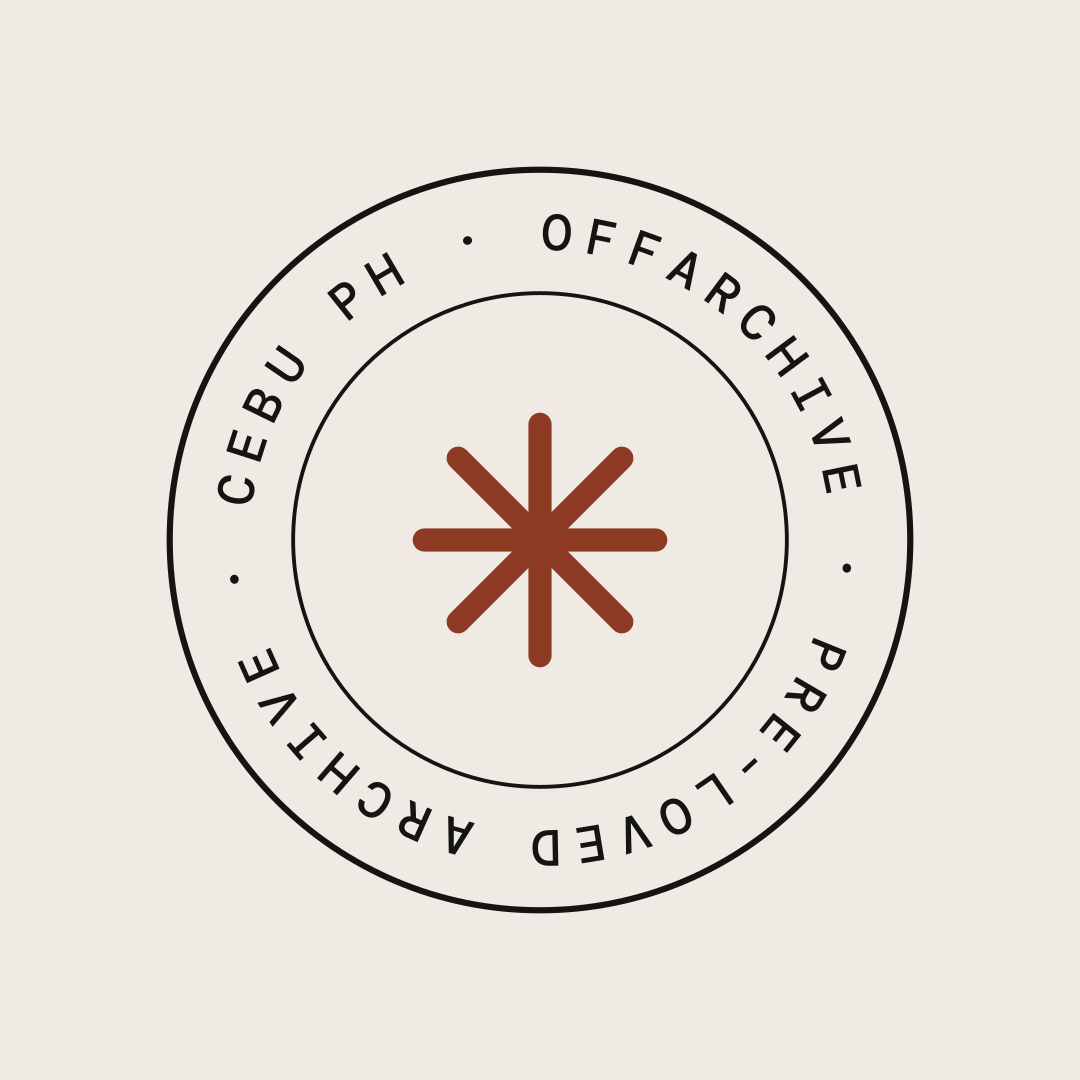
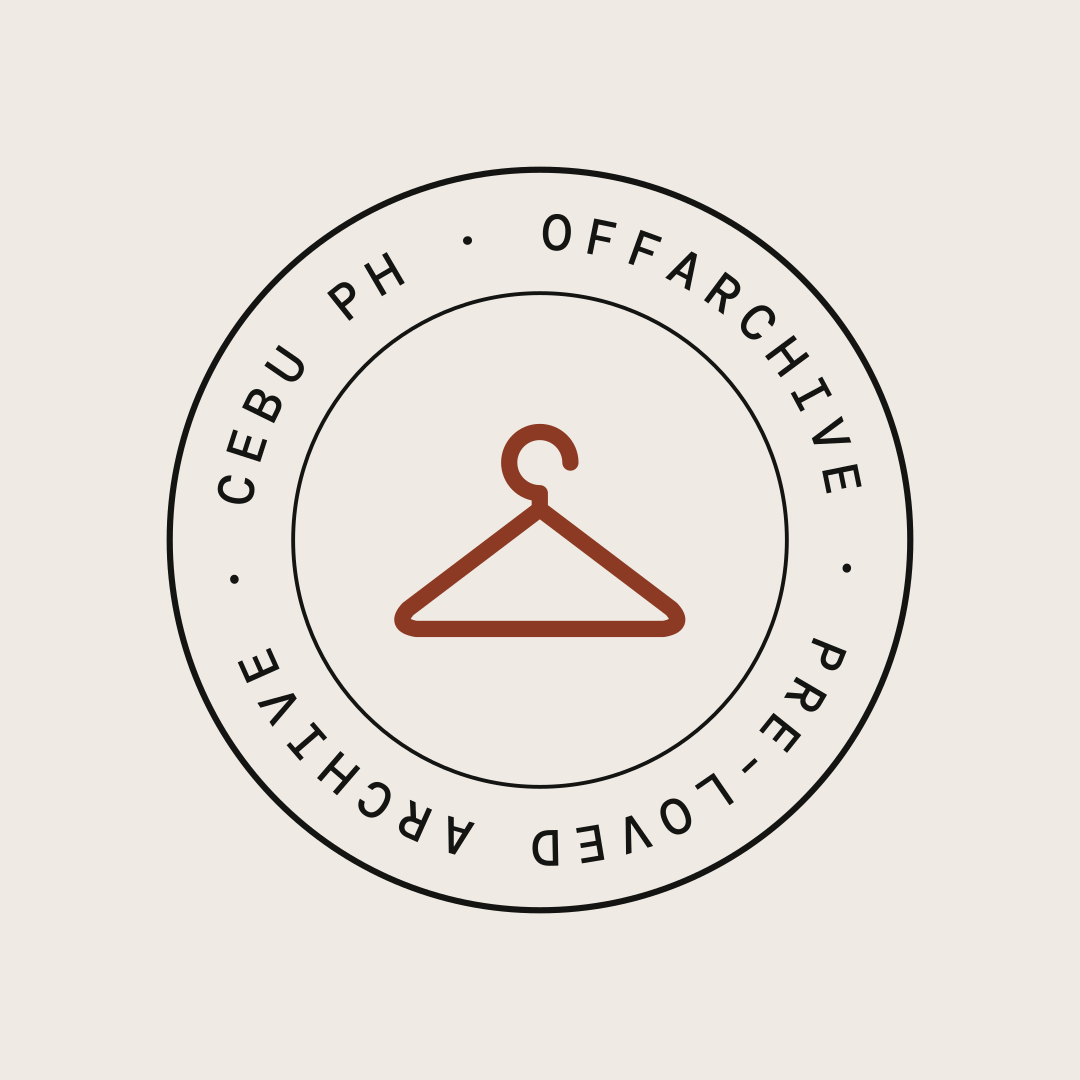
Replace the asterisk mark with a hanger across the identity
- Seal, favicon, app icons, avatar and share image use a rust coat hanger
- Hanger icon component for the banner separators, pick badge, section labels and sell notice
- Removes every remaining asterisk symbol from the site and docs

Changed region(s): [[0.3667, 0.3667, 0.6417, 0.6417]]

diff --git a/src/lib/brand.ts b/src/lib/brand.ts
@@ -1,3 +1,5 @@
 // Generated by `npm run brand` (tools/brand.mjs). Do not edit by hand.
 export const WORDMARK = { width: 514, height: 84, d: "M27 80.90L27 80.90Q22.20 80.90 18 78.05Q13.80 75.20 10.65 70.20Q7.50 65.20 5.75 58.45Q4 51.70 4 43.90L4 43.90Q4 36.10 5.75 29.40Q7.50 22.70 10.65 17.65Q13.80 12.60 18 9.80Q22.20 7 27 7L27 7Q31.80 7 35.95 9.80Q40.10 12.60 43.30 17.65Q46.50 22.70 48.25 29.40Q50 36.10 50 43.90L50 43.90Q50 51.70 48.25 58.45Q46.50 65.20 43.30 70.20Q40.10 75.20 35.95 78.05Q31.80 80.90 27 80.90ZM27 78.20L27 78.20Q34.10 78.20 38.10 69.70Q42.10 61.20 42.10 43.90L42.10 43.90Q42.10 26.60 38.10 18.15Q34.10 9.70 27 9.70L27 9.70Q20 9.70 15.95 18.15Q11.90 26.60 11.90 43.90L11.90 43.90Q11.90 61.20 15.95 69.70Q20 78.20 27 78.20ZM82.20 80L61.90 80Q60.40 80 60.40 78.90L60.40 78.90Q60.40 78 61.70 77.70L61.70 77.70L64 77.30Q66.10 76.90 66.75 76.20Q67.40 75.50 67.40 73.40L67.40 73.40L67.40 14.60Q67.40 12.50 66.75 11.80Q66.10 11.10 64 10.70L64 10.70L61.70 10.30Q60.40 10 60.40 9.10L60.40 9.10Q60.40 8 61.90 8L61.90 8L94.10 8Q96.40 8 96.60 10.30L96.60 10.30L97.40 26.90Q97.60 28.60 96.10 28.60L96.10 28.60Q94.90 28.60 94.70 27.30L94.70 27.30L94.20 24Q93.40 18.80 91.40 15.90Q89.40 13 86.90 11.75Q84.40 10.50 82.10 10.50L82.10 10.50Q77.70 10.50 76.10 11.90Q74.50 13.30 74.50 16.20L74.50 16.20L74.50 39.80Q74.50 41.20 75.90 41.20L75.90 41.20L79.40 41.20Q83.80 41.20 84.80 36.50L84.80 36.50L85.90 31.50Q86.20 30.20 87.40 30.20L87.40 30.20Q88.60 30.20 88.60 31.90L88.60 31.90L88.60 54.40Q88.60 56.10 87.40 56.10L87.40 56.10Q86.20 56.10 85.90 54.80L85.90 54.80L84.80 49.90Q84.10 46.40 82.85 45.30Q81.60 44.20 79.30 44.20L79.30 44.20L75.90 44.20Q74.50 44.20 74.50 45.60L74.50 45.60L74.50 72.90Q74.50 75 75.15 75.85Q75.80 76.70 77.90 77L77.90 77L82.60 77.70Q83.70 77.90 83.70 78.80L83.70 78.80Q83.70 80 82.20 80L82.20 80ZM127.50 80L107.20 80Q105.70 80 105.70 78.90L105.70 78.90Q105.70 78 107 77.70L107 77.70L109.30 77.30Q111.40 76.90 112.05 76.20Q112.70 75.50 112.70 73.40L112.70 73.40L112.70 14.60Q112.70 12.50 112.05 11.80Q111.40 11.10 109.30 10.70L109.30 10.70L107 10.30Q105.70 10 105.70 9.10L105.70 9.10Q105.70 8 107.20 8L107.20 8L139.40 8Q141.70 8 141.90 10.30L141.90 10.30L142.70 26.90Q142.90 28.60 141.40 28.60L141.40 28.60Q140.20 28.60 140 27.30L140 27.30L139.50 24Q138.70 18.80 136.70 15.90Q134.70 13 132.20 11.75Q129.70 10.50 127.40 10.50L127.40 10.50Q123 10.50 121.40 11.90Q119.80 13.30 119.80 16.20L119.80 16.20L119.80 39.80Q119.80 41.20 121.20 41.20L121.20 41.20L124.70 41.20Q129.10 41.20 130.10 36.50L130.10 36.50L131.20 31.50Q131.50 30.20 132.70 30.20L132.70 30.20Q133.90 30.20 133.90 31.90L133.90 31.90L133.90 54.40Q133.90 56.10 132.70 56.10L132.70 56.10Q131.50 56.10 131.20 54.80L131.20 54.80L130.10 49.90Q129.40 46.40 128.15 45.30Q126.90 44.20 124.60 44.20L124.60 44.20L121.20 44.20Q119.80 44.20 119.80 45.60L119.80 45.60L119.80 72.90Q119.80 75 120.45 75.85Q121.10 76.70 123.20 77L123.20 77L127.90 77.70Q129 77.90 129 78.80L129 78.80Q129 80 127.50 80L127.50 80ZM162.80 80L148.80 80Q147.30 80 147.30 79L147.30 79Q147.30 78 148.70 77.70L148.70 77.70L150.20 77.40Q152.20 77 153.20 75.45Q154.20 73.90 154.90 71.10L154.90 71.10L170.40 8.60Q170.60 7.60 171.05 7.30Q171.50 7 171.90 7L171.90 7Q172.40 7 172.85 7.30Q173.30 7.60 173.50 8.60L173.50 8.60L189.30 72Q190 74.80 190.90 75.90Q191.80 77 193.70 77.40L193.70 77.40L195.20 77.70Q196.60 78 196.60 79L196.60 79Q196.60 80 195.10 80L195.10 80L178 80Q176.60 80 176.60 78.90L176.60 78.90Q176.60 77.80 178.30 77.70L178.30 77.70L180.20 77.50Q181.90 77.30 182.35 76.40Q182.80 75.50 182.30 73.30L182.30 73.30L178.50 57.80Q177.90 55.20 175.20 55.20L175.20 55.20L164.70 55.20Q162.10 55.20 161.40 57.80L161.40 57.80L158 71.20Q156.50 76.90 161 77.50L161 77.50L162.50 77.70Q164.20 78 164.20 78.90L164.20 78.90Q164.20 80 162.80 80L162.80 80ZM164.40 52.20L164.40 52.20L175.40 52.20Q177 52.20 176.70 50.50L176.70 50.50L170.30 23.70L169.80 23.70L163.10 50.50Q162.80 52.20 164.40 52.20ZM244.30 80.90L244.30 80.90Q235.60 80.90 233.20 69.50L233.20 69.50L230.90 58.40Q229.80 53 228.45 50.20Q227.10 47.40 224.75 46.40Q222.40 45.40 218.30 45.40L218.30 45.40Q216.90 45.40 216.10 46.15Q215.30 46.90 215.30 48L215.30 48L215.30 73Q215.30 75.10 216.10 75.85Q216.90 76.60 219.70 77.10L219.70 77.10L223.40 77.70Q224.50 77.90 224.50 78.80L224.50 78.80Q224.50 80 223 80L223 80L202.70 80Q201.20 80 201.20 78.90L201.20 78.90Q201.20 78 202.50 77.70L202.50 77.70L204.80 77.30Q206.90 76.90 207.55 76.20Q208.20 75.50 208.20 73.40L208.20 73.40L208.20 14.60Q208.20 12.50 207.55 11.80Q206.90 11.10 204.80 10.70L204.80 10.70L202.50 10.30Q201.20 10 201.20 9.10L201.20 9.10Q201.20 8 202.70 8L202.70 8L223 8Q228.90 8 233.50 10.30Q238.10 12.60 240.70 16.65Q243.30 20.70 243.30 26L243.30 26Q243.30 32.30 239.50 37.35Q235.70 42.40 229.90 44.50L229.90 44.50Q229.20 44.70 229.15 45.15Q229.10 45.60 229.80 45.90L229.80 45.90Q233 47.40 234.85 50.10Q236.70 52.80 237.70 57.30L237.70 57.30L239.90 67.50Q241 72.70 242.50 74.90Q244 77.10 246.30 77.10L246.30 77.10Q247.10 77.10 247.75 76.85Q248.40 76.60 249.40 75.90L249.40 75.90Q250.20 75.40 250.90 75.65Q251.60 75.90 251.60 76.70L251.60 76.70Q251.60 78.40 249.40 79.65Q247.20 80.90 244.30 80.90ZM222 42.90L222 42.90Q228.80 42.90 232.30 38.35Q235.80 33.80 235.80 26.20L235.80 26.20Q235.80 18.80 231.75 14.65Q227.70 10.50 220.60 10.50L220.60 10.50Q215.30 10.50 215.30 14.50L215.30 14.50L215.30 37.40Q215.30 42.90 222 42.90ZM283.70 80.90L283.70 80.90Q276.30 80.90 270.75 76.30Q265.20 71.70 262.15 63.35Q259.10 55 259.10 43.60L259.10 43.60Q259.10 32.60 262.45 24.35Q265.80 16.10 271.45 11.55Q277.10 7 284 7L284 7Q288.10 7 291.20 7.75Q294.30 8.50 296.70 9.70L296.70 9.70Q297.90 10.40 297.90 11.80L297.90 11.80L298.20 27Q298.20 28.70 297 28.70L297 28.70Q295.90 28.70 295.60 27.40L295.60 27.40L294.60 23.70Q292.50 15.90 289.75 12.90Q287 9.90 283.20 9.90L283.20 9.90Q276.20 9.90 271.55 18.55Q266.90 27.20 266.90 43.60L266.90 43.60Q266.90 54.80 269.25 62.50Q271.60 70.20 275.35 74.10Q279.10 78 283.30 78L283.30 78Q287.80 78 290.55 75.20Q293.30 72.40 295.20 64.40L295.20 64.40L296.40 59.50Q296.70 58 298 58.20L298 58.20Q299.10 58.40 299.10 59.90L299.10 59.90L298.70 76.10Q298.70 77.50 297.40 78.20L297.40 78.20Q295 79.40 291.75 80.15Q288.50 80.90 283.70 80.90ZM329.30 80L311 80Q309.50 80 309.50 78.90L309.50 78.90Q309.50 78 310.80 77.70L310.80 77.70L313.10 77.30Q315.20 76.90 315.85 76.20Q316.50 75.50 316.50 73.40L316.50 73.40L316.50 14.60Q316.50 12.50 315.85 11.80Q315.20 11.10 313.10 10.70L313.10 10.70L310.80 10.30Q309.50 10 309.50 9.10L309.50 9.10Q309.50 8 311 8L311 8L329.30 8Q330.80 8 330.80 9.20L330.80 9.20Q330.80 10.10 329.70 10.30L329.70 10.30L327 10.70Q324.90 11 324.25 11.80Q323.60 12.60 323.60 14.70L323.60 14.70L323.60 39.80Q323.60 41.20 325 41.20L325 41.20L344.80 41.20Q346.20 41.20 346.20 39.80L346.20 39.80L346.20 14.70Q346.20 12.60 345.55 11.80Q344.90 11 342.80 10.70L342.80 10.70L340.10 10.30Q339 10.10 339 9.20L339 9.20Q339 8 340.50 8L340.50 8L358.80 8Q360.30 8 360.30 9.10L360.30 9.10Q360.30 10 359 10.30L359 10.30L356.70 10.70Q354.60 11.10 353.95 11.80Q353.30 12.50 353.30 14.60L353.30 14.60L353.30 73.40Q353.30 75.50 353.95 76.20Q354.60 76.90 356.70 77.30L356.70 77.30L359 77.70Q360.30 78 360.30 78.90L360.30 78.90Q360.30 80 358.80 80L358.80 80L340.50 80Q339 80 339 78.80L339 78.80Q339 77.90 340.10 77.70L340.10 77.70L342.80 77.30Q344.90 77 345.55 76.20Q346.20 75.40 346.20 73.30L346.20 73.30L346.20 45.60Q346.20 44.20 344.80 44.20L344.80 44.20L325 44.20Q323.60 44.20 323.60 45.60L323.60 45.60L323.60 73.30Q323.60 75.40 324.25 76.20Q324.90 77 327 77.30L327 77.30L329.70 77.70Q330.80 77.90 330.80 78.80L330.80 78.80Q330.80 80 329.30 80L329.30 80ZM388.20 80L370.10 80Q368.60 80 368.60 78.90L368.60 78.90Q368.60 78 369.90 77.70L369.90 77.70L372.20 77.30Q374.30 76.90 374.95 76.20Q375.60 75.50 375.60 73.40L375.60 73.40L375.60 14.60Q375.60 12.50 374.95 11.80Q374.30 11.10 372.20 10.70L372.20 10.70L369.90 10.30Q368.60 10 368.60 9.10L368.60 9.10Q368.60 8 370.10 8L370.10 8L388.20 8Q389.70 8 389.70 9.10L389.70 9.10Q389.70 10 388.40 10.30L388.40 10.30L386.10 10.70Q384.00 11.10 383.35 11.80Q382.70 12.50 382.70 14.60L382.70 14.60L382.70 73.40Q382.70 75.50 383.35 76.20Q384.00 76.90 386.10 77.30L386.10 77.30L388.40 77.70Q389.70 78 389.70 78.90L389.70 78.90Q389.70 80 388.20 80L388.20 80ZM419 81L419 81Q418.60 81 418.10 80.70Q417.60 80.40 417.40 79.40L417.40 79.40L401.60 16Q400.90 13.20 400.05 12.10Q399.20 11 397.20 10.60L397.20 10.60L395.70 10.30Q394.30 10 394.30 9L394.30 9Q394.30 8 395.80 8L395.80 8L412.90 8Q414.30 8 414.30 9.10L414.30 9.10Q414.30 10.20 412.60 10.30L412.60 10.30L410.70 10.50Q409 10.60 408.55 11.55Q408.10 12.50 408.60 14.70L408.60 14.70L420.20 62.80Q420.40 63.40 420.85 63.40Q421.30 63.40 421.40 62.80L421.40 62.80L432.90 16.80Q434.30 11.10 429.90 10.50L429.90 10.50L428.40 10.30Q426.70 10 426.70 9.10L426.70 9.10Q426.70 8 428.10 8L428.10 8L442.10 8Q443.60 8 443.60 9L443.60 9Q443.60 10 442.20 10.30L442.20 10.30L440.70 10.60Q438.80 11 437.75 12.55Q436.70 14.10 436 16.90L436 16.90L420.50 79.40Q420.30 80.40 419.85 80.70Q419.40 81 419 81ZM484.80 80L449.70 80Q448.20 80 448.20 78.90L448.20 78.90Q448.20 78 449.50 77.70L449.50 77.70L451.80 77.30Q453.90 76.90 454.55 76.20Q455.20 75.50 455.20 73.40L455.20 73.40L455.20 14.60Q455.20 12.50 454.55 11.80Q453.90 11.10 451.80 10.70L451.80 10.70L449.50 10.30Q448.20 10 448.20 9.10L448.20 9.10Q448.20 8 449.70 8L449.70 8L483.30 8Q485.60 8 485.80 10.30L485.80 10.30L486.60 26.90Q486.80 28.60 485.30 28.60L485.30 28.60Q484.10 28.60 483.90 27.30L483.90 27.30L483.30 23.60Q482.20 16.80 478.80 13.65Q475.40 10.50 469.40 10.50L469.40 10.50Q465.40 10.50 463.85 11.65Q462.30 12.80 462.30 15.70L462.30 15.70L462.30 39.80Q462.30 41.20 463.70 41.20L463.70 41.20L468.70 41.20Q473.10 41.20 474.10 36.50L474.10 36.50L475.10 31.50Q475.50 30 476.80 30.20L476.80 30.20Q477.90 30.40 477.90 31.90L477.90 31.90L477.90 54.40Q477.90 55.90 476.80 56.10L476.80 56.10Q475.50 56.30 475.10 54.80L475.10 54.80L474.10 49.90Q473.40 46.40 472.15 45.30Q470.90 44.20 468.60 44.20L468.60 44.20L463.70 44.20Q462.30 44.20 462.30 45.60L462.30 45.60L462.30 70.70Q462.30 74.30 464.15 75.90Q466 77.50 470.90 77.50L470.90 77.50Q475.90 77.50 479.45 74.95Q483 72.40 484.40 65.40L484.40 65.40L485.60 59.50Q485.90 58.20 487.10 58.20L487.10 58.20Q488.50 58.20 488.30 59.90L488.30 59.90L487.30 77.70Q487.10 80 484.80 80L484.80 80Z", dot: {"cx":504.6,"cy":74.5,"r":7} } as const;
-export const SEAL = { size: 200, ring: "<path transform=\"translate(104.38 20.12) rotate(3.14)\" d=\"M0.00 4.91L0.00 4.91Q-1.12 4.91-1.94 4.33Q-2.76 3.75-3.19 2.68Q-3.63 1.61-3.63 0.13L-3.63 0.13Q-3.63-1.35-3.19-2.42Q-2.76-3.48-1.94-4.07Q-1.12-4.65 0.00-4.65L0.00-4.65Q1.14-4.65 1.95-4.07Q2.76-3.48 3.19-2.42Q3.63-1.35 3.63 0.13L3.63 0.13Q3.63 1.61 3.19 2.68Q2.76 3.75 1.95 4.33Q1.14 4.91 0.00 4.91ZM0.00 3.59L0.00 3.59Q0.99 3.59 1.60 2.70Q2.20 1.81 2.20 0.13L2.20 0.13Q2.20-1.54 1.60-2.44Q0.99-3.33 0.00-3.33L0.00-3.33Q-1.00-3.33-1.60-2.44Q-2.20-1.54-2.20 0.13L-2.20 0.13Q-2.20 1.81-1.60 2.70Q-1.00 3.59 0.00 3.59Z\"/><path transform=\"translate(115.97 21.61) rotate(11.51)\" d=\"M-1.45 4.75L-2.85 4.75L-2.85-4.49L3.08-4.49L3.08-3.18L-1.45-3.18L-1.45-0.36L2.35-0.36L2.35 0.87L-1.45 0.87L-1.45 4.75Z\"/><path transform=\"translate(127.21 24.77) rotate(19.88)\" d=\"M-1.45 4.75L-2.85 4.75L-2.85-4.49L3.08-4.49L3.08-3.18L-1.45-3.18L-1.45-0.36L2.35-0.36L2.35 0.87L-1.45 0.87L-1.45 4.75Z\"/><path transform=\"translate(137.87 29.53) rotate(28.26)\" d=\"M-2.07 4.75L-3.59 4.75L-0.83-4.49L0.83-4.49L3.59 4.75L2.07 4.75L1.45 2.53L-1.45 2.53L-2.07 4.75ZM0.04-2.51L-0.04-2.51L-1.14 1.41L1.14 1.41L0.04-2.51Z\"/><path transform=\"translate(147.73 35.8) rotate(36.63)\" d=\"M-1.57 4.75L-2.97 4.75L-2.97-4.49L0.05-4.49Q1.14-4.49 1.84-4.12Q2.55-3.75 2.90-3.12Q3.25-2.49 3.25-1.70L3.25-1.70Q3.25-0.81 2.79-0.11Q2.34 0.58 1.40 0.90L1.40 0.90L3.34 4.75L1.72 4.75L-0.05 1.10L-1.57 1.10L-1.57 4.75ZM-1.57-3.23L-1.57-0.17L-0.03-0.17Q0.92-0.17 1.37-0.59Q1.81-1.02 1.81-1.70L1.81-1.70Q1.81-2.40 1.37-2.82Q0.94-3.23-0.04-3.23L-0.04-3.23L-1.57-3.23Z\"/><path transform=\"translate(156.57 43.43) rotate(45)\" d=\"M0.03 4.91L0.03 4.91Q-1.14 4.91-1.95 4.32Q-2.76 3.72-3.19 2.65Q-3.62 1.57-3.62 0.15L-3.62 0.15Q-3.62-1.29-3.19-2.37Q-2.76-3.45-1.94-4.05Q-1.12-4.65 0.03-4.65L0.03-4.65Q1.52-4.65 2.40-3.83Q3.29-3.02 3.43-1.64L3.43-1.64L1.89-1.64Q1.77-2.36 1.30-2.84Q0.83-3.33 0.01-3.33L0.01-3.33Q-1.03-3.33-1.61-2.40Q-2.19-1.48-2.19 0.15L-2.19 0.15Q-2.19 1.76-1.61 2.67Q-1.03 3.59 0.01 3.59L0.01 3.59Q0.86 3.59 1.31 3.15Q1.76 2.71 1.89 1.98L1.89 1.98L3.43 1.98Q3.22 3.34 2.36 4.13Q1.50 4.91 0.03 4.91Z\"/><path transform=\"translate(164.2 52.27) rotate(53.37)\" d=\"M-2.02 4.75L-3.42 4.75L-3.42-4.49L-2.02-4.49L-2.02-0.66L2.02-0.66L2.02-4.49L3.42-4.49L3.42 4.75L2.02 4.75L2.02 0.62L-2.02 0.62L-2.02 4.75Z\"/><path transform=\"translate(170.47 62.13) rotate(61.74)\" d=\"M2.71 4.75L-2.71 4.75L-2.71 3.51L-0.70 3.51L-0.70-3.25L-2.68-3.25L-2.68-4.49L2.68-4.49L2.68-3.25L0.70-3.25L0.70 3.51L2.71 3.51L2.71 4.75Z\"/><path transform=\"translate(175.23 72.79) rotate(70.12)\" d=\"M0.83 4.75L-0.83 4.75L-3.68-4.49L-2.18-4.49L0.00 2.90L2.18-4.49L3.68-4.49L0.83 4.75Z\"/><path transform=\"translate(178.39 84.03) rotate(78.49)\" d=\"M3.00 4.75L-2.90 4.75L-2.90-4.49L3.00-4.49L3.00-3.23L-1.50-3.23L-1.50-0.54L2.60-0.54L2.60 0.70L-1.50 0.70L-1.50 3.50L3.00 3.50L3.00 4.75Z\"/><path transform=\"translate(179.67 107.3) rotate(95.23)\" d=\"M0.00 1.23L0.00 1.23Q-0.49 1.23-0.83 0.90Q-1.17 0.58-1.17 0.12L-1.17 0.12Q-1.17-0.34-0.83-0.66Q-0.49-0.98 0.00-0.98L0.00-0.98Q0.50-0.98 0.84-0.66Q1.17-0.34 1.17 0.12L1.17 0.12Q1.17 0.58 0.84 0.90Q0.50 1.23 0.00 1.23Z\"/><path transform=\"translate(174.19 129.94) rotate(111.98)\" d=\"M-1.62 4.75L-3.02 4.75L-3.02-4.49L0.11-4.49Q1.16-4.49 1.85-4.13Q2.53-3.76 2.86-3.13Q3.19-2.49 3.19-1.68L3.19-1.68Q3.19-0.86 2.86-0.22Q2.53 0.41 1.85 0.77Q1.16 1.14 0.11 1.14L0.11 1.14L-1.62 1.14L-1.62 4.75ZM-1.62-3.23L-1.62-0.12L0.04-0.12Q0.94-0.12 1.35-0.54Q1.77-0.96 1.77-1.68L1.77-1.68Q1.77-2.38 1.35-2.81Q0.94-3.23 0.04-3.23L0.04-3.23L-1.62-3.23Z\"/><path transform=\"translate(169.04 140.42) rotate(120.35)\" d=\"M-1.57 4.75L-2.97 4.75L-2.97-4.49L0.05-4.49Q1.14-4.49 1.84-4.12Q2.55-3.75 2.90-3.12Q3.25-2.49 3.25-1.70L3.25-1.70Q3.25-0.81 2.79-0.11Q2.34 0.58 1.40 0.90L1.40 0.90L3.34 4.75L1.72 4.75L-0.05 1.10L-1.57 1.10L-1.57 4.75ZM-1.57-3.23L-1.57-0.17L-0.03-0.17Q0.92-0.17 1.37-0.59Q1.81-1.02 1.81-1.70L1.81-1.70Q1.81-2.40 1.37-2.82Q0.94-3.23-0.04-3.23L-0.04-3.23L-1.57-3.23Z\"/><path transform=\"translate(162.42 150.04) rotate(128.72)\" d=\"M3.00 4.75L-2.90 4.75L-2.90-4.49L3.00-4.49L3.00-3.23L-1.50-3.23L-1.50-0.54L2.60-0.54L2.60 0.70L-1.50 0.70L-1.50 3.50L3.00 3.50L3.00 4.75Z\"/><path transform=\"translate(154.46 158.6) rotate(137.09)\" d=\"M2.27 0.73L-2.27 0.73L-2.27-0.46L2.27-0.46L2.27 0.73Z\"/><path transform=\"translate(145.35 165.9) rotate(145.47)\" d=\"M3.06 4.75L-2.89 4.75L-2.89-4.49L-1.49-4.49L-1.49 3.50L3.06 3.50L3.06 4.75Z\"/><path transform=\"translate(135.27 171.8) rotate(153.84)\" d=\"M0.00 4.91L0.00 4.91Q-1.12 4.91-1.94 4.33Q-2.76 3.75-3.19 2.68Q-3.63 1.61-3.63 0.13L-3.63 0.13Q-3.63-1.35-3.19-2.42Q-2.76-3.48-1.94-4.07Q-1.12-4.65 0.00-4.65L0.00-4.65Q1.14-4.65 1.95-4.07Q2.76-3.48 3.19-2.42Q3.63-1.35 3.63 0.13L3.63 0.13Q3.63 1.61 3.19 2.68Q2.76 3.75 1.95 4.33Q1.14 4.91 0.00 4.91ZM0.00 3.59L0.00 3.59Q0.99 3.59 1.60 2.70Q2.20 1.81 2.20 0.13L2.20 0.13Q2.20-1.54 1.60-2.44Q0.99-3.33 0.00-3.33L0.00-3.33Q-1.00-3.33-1.60-2.44Q-2.20-1.54-2.20 0.13L-2.20 0.13Q-2.20 1.81-1.60 2.70Q-1.00 3.59 0.00 3.59Z\"/><path transform=\"translate(124.44 176.17) rotate(162.21)\" d=\"M0.83 4.75L-0.83 4.75L-3.68-4.49L-2.18-4.49L0.00 2.90L2.18-4.49L3.68-4.49L0.83 4.75Z\"/><path transform=\"translate(113.09 178.92) rotate(170.58)\" d=\"M3.00 4.75L-2.90 4.75L-2.90-4.49L3.00-4.49L3.00-3.23L-1.50-3.23L-1.50-0.54L2.60-0.54L2.60 0.70L-1.50 0.70L-1.50 3.50L3.00 3.50L3.00 4.75Z\"/><path transform=\"translate(101.46 179.99) rotate(178.95)\" d=\"M-0.99 4.75L-3.21 4.75L-3.21-4.49L-0.99-4.49Q1.24-4.49 2.32-3.25Q3.41-2.02 3.41 0.13L3.41 0.13Q3.41 2.28 2.32 3.52Q1.24 4.75-0.99 4.75L-0.99 4.75ZM-1.81-3.19L-1.81 3.46L-1.04 3.46Q0.57 3.46 1.28 2.55Q1.99 1.65 1.99 0.13L1.99 0.13Q1.99-1.39 1.28-2.29Q0.57-3.19-1.04-3.19L-1.04-3.19L-1.81-3.19Z\"/><path transform=\"translate(78.36 177.02) rotate(195.7)\" d=\"M-2.07 4.75L-3.59 4.75L-0.83-4.49L0.83-4.49L3.59 4.75L2.07 4.75L1.45 2.53L-1.45 2.53L-2.07 4.75ZM0.04-2.51L-0.04-2.51L-1.14 1.41L1.14 1.41L0.04-2.51Z\"/><path transform=\"translate(67.37 173.04) rotate(204.07)\" d=\"M-1.57 4.75L-2.97 4.75L-2.97-4.49L0.05-4.49Q1.14-4.49 1.84-4.12Q2.55-3.75 2.90-3.12Q3.25-2.49 3.25-1.70L3.25-1.70Q3.25-0.81 2.79-0.11Q2.34 0.58 1.40 0.90L1.40 0.90L3.34 4.75L1.72 4.75L-0.05 1.10L-1.57 1.10L-1.57 4.75ZM-1.57-3.23L-1.57-0.17L-0.03-0.17Q0.92-0.17 1.37-0.59Q1.81-1.02 1.81-1.70L1.81-1.70Q1.81-2.40 1.37-2.82Q0.94-3.23-0.04-3.23L-0.04-3.23L-1.57-3.23Z\"/><path transform=\"translate(57.08 167.51) rotate(212.44)\" d=\"M0.03 4.91L0.03 4.91Q-1.14 4.91-1.95 4.32Q-2.76 3.72-3.19 2.65Q-3.62 1.57-3.62 0.15L-3.62 0.15Q-3.62-1.29-3.19-2.37Q-2.76-3.45-1.94-4.05Q-1.12-4.65 0.03-4.65L0.03-4.65Q1.52-4.65 2.40-3.83Q3.29-3.02 3.43-1.64L3.43-1.64L1.89-1.64Q1.77-2.36 1.30-2.84Q0.83-3.33 0.01-3.33L0.01-3.33Q-1.03-3.33-1.61-2.40Q-2.19-1.48-2.19 0.15L-2.19 0.15Q-2.19 1.76-1.61 2.67Q-1.03 3.59 0.01 3.59L0.01 3.59Q0.86 3.59 1.31 3.15Q1.76 2.71 1.89 1.98L1.89 1.98L3.43 1.98Q3.22 3.34 2.36 4.13Q1.50 4.91 0.03 4.91Z\"/><path transform=\"translate(47.71 160.55) rotate(220.81)\" d=\"M-2.02 4.75L-3.42 4.75L-3.42-4.49L-2.02-4.49L-2.02-0.66L2.02-0.66L2.02-4.49L3.42-4.49L3.42 4.75L2.02 4.75L2.02 0.62L-2.02 0.62L-2.02 4.75Z\"/><path transform=\"translate(39.45 152.29) rotate(229.19)\" d=\"M2.71 4.75L-2.71 4.75L-2.71 3.51L-0.70 3.51L-0.70-3.25L-2.68-3.25L-2.68-4.49L2.68-4.49L2.68-3.25L0.70-3.25L0.70 3.51L2.71 3.51L2.71 4.75Z\"/><path transform=\"translate(32.49 142.92) rotate(237.56)\" d=\"M0.83 4.75L-0.83 4.75L-3.68-4.49L-2.18-4.49L0.00 2.90L2.18-4.49L3.68-4.49L0.83 4.75Z\"/><path transform=\"translate(26.96 132.63) rotate(245.93)\" d=\"M3.00 4.75L-2.90 4.75L-2.90-4.49L3.00-4.49L3.00-3.23L-1.50-3.23L-1.50-0.54L2.60-0.54L2.60 0.70L-1.50 0.70L-1.50 3.50L3.00 3.50L3.00 4.75Z\"/><path transform=\"translate(20.65 110.2) rotate(262.67)\" d=\"M0.00 1.23L0.00 1.23Q-0.49 1.23-0.83 0.90Q-1.17 0.58-1.17 0.12L-1.17 0.12Q-1.17-0.34-0.83-0.66Q-0.49-0.98 0.00-0.98L0.00-0.98Q0.50-0.98 0.84-0.66Q1.17-0.34 1.17 0.12L1.17 0.12Q1.17 0.58 0.84 0.90Q0.50 1.23 0.00 1.23Z\"/><path transform=\"translate(21.08 86.91) rotate(279.42)\" d=\"M0.03 4.91L0.03 4.91Q-1.14 4.91-1.95 4.32Q-2.76 3.72-3.19 2.65Q-3.62 1.57-3.62 0.15L-3.62 0.15Q-3.62-1.29-3.19-2.37Q-2.76-3.45-1.94-4.05Q-1.12-4.65 0.03-4.65L0.03-4.65Q1.52-4.65 2.40-3.83Q3.29-3.02 3.43-1.64L3.43-1.64L1.89-1.64Q1.77-2.36 1.30-2.84Q0.83-3.33 0.01-3.33L0.01-3.33Q-1.03-3.33-1.61-2.40Q-2.19-1.48-2.19 0.15L-2.19 0.15Q-2.19 1.76-1.61 2.67Q-1.03 3.59 0.01 3.59L0.01 3.59Q0.86 3.59 1.31 3.15Q1.76 2.71 1.89 1.98L1.89 1.98L3.43 1.98Q3.22 3.34 2.36 4.13Q1.50 4.91 0.03 4.91Z\"/><path transform=\"translate(23.83 75.56) rotate(287.79)\" d=\"M3.00 4.75L-2.90 4.75L-2.90-4.49L3.00-4.49L3.00-3.23L-1.50-3.23L-1.50-0.54L2.60-0.54L2.60 0.70L-1.50 0.70L-1.50 3.50L3.00 3.50L3.00 4.75Z\"/><path transform=\"translate(28.2 64.73) rotate(296.16)\" d=\"M0.18 4.75L-3.22 4.75L-3.22-4.49L0.08-4.49Q1.52-4.49 2.26-3.83Q3.00-3.17 3.00-2.13L3.00-2.13Q3.00-1.32 2.57-0.82Q2.15-0.32 1.60-0.09L1.60-0.09L1.60 0Q2.26 0.24 2.73 0.77Q3.21 1.31 3.21 2.18L3.21 2.18Q3.21 2.89 2.86 3.48Q2.51 4.07 1.83 4.41Q1.16 4.75 0.18 4.75L0.18 4.75ZM-1.82-3.25L-1.82-0.63L-0.09-0.63Q0.71-0.63 1.14-0.96Q1.56-1.28 1.56-1.94L1.56-1.94Q1.56-3.25-0.12-3.25L-0.12-3.25L-1.82-3.25ZM-1.82 0.55L-1.82 3.46L0.00 3.46Q0.86 3.46 1.32 3.09Q1.78 2.72 1.78 2.01L1.78 2.01Q1.78 1.31 1.29 0.93Q0.81 0.55-0.03 0.55L-0.03 0.55L-1.82 0.55Z\"/><path transform=\"translate(34.1 54.65) rotate(304.53)\" d=\"M-0.03 4.91L-0.03 4.91Q-0.96 4.91-1.70 4.53Q-2.43 4.14-2.85 3.36Q-3.27 2.57-3.27 1.37L-3.27 1.37L-3.27-4.49L-1.87-4.49L-1.87 1.45Q-1.87 2.51-1.37 3.08Q-0.87 3.66 0.00 3.66L0.00 3.66Q0.87 3.66 1.37 3.08Q1.87 2.51 1.87 1.45L1.87 1.45L1.87-4.49L3.27-4.49L3.27 1.37Q3.27 2.57 2.84 3.36Q2.40 4.14 1.66 4.53Q0.91 4.91-0.03 4.91Z\"/><path transform=\"translate(49.96 37.58) rotate(321.28)\" d=\"M-1.62 4.75L-3.02 4.75L-3.02-4.49L0.11-4.49Q1.16-4.49 1.85-4.13Q2.53-3.76 2.86-3.13Q3.19-2.49 3.19-1.68L3.19-1.68Q3.19-0.86 2.86-0.22Q2.53 0.41 1.85 0.77Q1.16 1.14 0.11 1.14L0.11 1.14L-1.62 1.14L-1.62 4.75ZM-1.62-3.23L-1.62-0.12L0.04-0.12Q0.94-0.12 1.35-0.54Q1.77-0.96 1.77-1.68L1.77-1.68Q1.77-2.38 1.35-2.81Q0.94-3.23 0.04-3.23L0.04-3.23L-1.62-3.23Z\"/><path transform=\"translate(59.58 30.96) rotate(329.65)\" d=\"M-2.02 4.75L-3.42 4.75L-3.42-4.49L-2.02-4.49L-2.02-0.66L2.02-0.66L2.02-4.49L3.42-4.49L3.42 4.75L2.02 4.75L2.02 0.62L-2.02 0.62L-2.02 4.75Z\"/><path transform=\"translate(81.18 22.24) rotate(346.4)\" d=\"M0.00 1.23L0.00 1.23Q-0.49 1.23-0.83 0.90Q-1.17 0.58-1.17 0.12L-1.17 0.12Q-1.17-0.34-0.83-0.66Q-0.49-0.98 0.00-0.98L0.00-0.98Q0.50-0.98 0.84-0.66Q1.17-0.34 1.17 0.12L1.17 0.12Q1.17 0.58 0.84 0.90Q0.50 1.23 0.00 1.23Z\"/>", star: "M70 100L130 100M78.79 78.79L121.21 121.21M100 70L100 130M121.21 78.79L78.79 121.21" } as const;
+export const SEAL = { size: 200, ring: "<path transform=\"translate(104.38 20.12) rotate(3.14)\" d=\"M0.00 4.91L0.00 4.91Q-1.12 4.91-1.94 4.33Q-2.76 3.75-3.19 2.68Q-3.63 1.61-3.63 0.13L-3.63 0.13Q-3.63-1.35-3.19-2.42Q-2.76-3.48-1.94-4.07Q-1.12-4.65 0.00-4.65L0.00-4.65Q1.14-4.65 1.95-4.07Q2.76-3.48 3.19-2.42Q3.63-1.35 3.63 0.13L3.63 0.13Q3.63 1.61 3.19 2.68Q2.76 3.75 1.95 4.33Q1.14 4.91 0.00 4.91ZM0.00 3.59L0.00 3.59Q0.99 3.59 1.60 2.70Q2.20 1.81 2.20 0.13L2.20 0.13Q2.20-1.54 1.60-2.44Q0.99-3.33 0.00-3.33L0.00-3.33Q-1.00-3.33-1.60-2.44Q-2.20-1.54-2.20 0.13L-2.20 0.13Q-2.20 1.81-1.60 2.70Q-1.00 3.59 0.00 3.59Z\"/><path transform=\"translate(115.97 21.61) rotate(11.51)\" d=\"M-1.45 4.75L-2.85 4.75L-2.85-4.49L3.08-4.49L3.08-3.18L-1.45-3.18L-1.45-0.36L2.35-0.36L2.35 0.87L-1.45 0.87L-1.45 4.75Z\"/><path transform=\"translate(127.21 24.77) rotate(19.88)\" d=\"M-1.45 4.75L-2.85 4.75L-2.85-4.49L3.08-4.49L3.08-3.18L-1.45-3.18L-1.45-0.36L2.35-0.36L2.35 0.87L-1.45 0.87L-1.45 4.75Z\"/><path transform=\"translate(137.87 29.53) rotate(28.26)\" d=\"M-2.07 4.75L-3.59 4.75L-0.83-4.49L0.83-4.49L3.59 4.75L2.07 4.75L1.45 2.53L-1.45 2.53L-2.07 4.75ZM0.04-2.51L-0.04-2.51L-1.14 1.41L1.14 1.41L0.04-2.51Z\"/><path transform=\"translate(147.73 35.8) rotate(36.63)\" d=\"M-1.57 4.75L-2.97 4.75L-2.97-4.49L0.05-4.49Q1.14-4.49 1.84-4.12Q2.55-3.75 2.90-3.12Q3.25-2.49 3.25-1.70L3.25-1.70Q3.25-0.81 2.79-0.11Q2.34 0.58 1.40 0.90L1.40 0.90L3.34 4.75L1.72 4.75L-0.05 1.10L-1.57 1.10L-1.57 4.75ZM-1.57-3.23L-1.57-0.17L-0.03-0.17Q0.92-0.17 1.37-0.59Q1.81-1.02 1.81-1.70L1.81-1.70Q1.81-2.40 1.37-2.82Q0.94-3.23-0.04-3.23L-0.04-3.23L-1.57-3.23Z\"/><path transform=\"translate(156.57 43.43) rotate(45)\" d=\"M0.03 4.91L0.03 4.91Q-1.14 4.91-1.95 4.32Q-2.76 3.72-3.19 2.65Q-3.62 1.57-3.62 0.15L-3.62 0.15Q-3.62-1.29-3.19-2.37Q-2.76-3.45-1.94-4.05Q-1.12-4.65 0.03-4.65L0.03-4.65Q1.52-4.65 2.40-3.83Q3.29-3.02 3.43-1.64L3.43-1.64L1.89-1.64Q1.77-2.36 1.30-2.84Q0.83-3.33 0.01-3.33L0.01-3.33Q-1.03-3.33-1.61-2.40Q-2.19-1.48-2.19 0.15L-2.19 0.15Q-2.19 1.76-1.61 2.67Q-1.03 3.59 0.01 3.59L0.01 3.59Q0.86 3.59 1.31 3.15Q1.76 2.71 1.89 1.98L1.89 1.98L3.43 1.98Q3.22 3.34 2.36 4.13Q1.50 4.91 0.03 4.91Z\"/><path transform=\"translate(164.2 52.27) rotate(53.37)\" d=\"M-2.02 4.75L-3.42 4.75L-3.42-4.49L-2.02-4.49L-2.02-0.66L2.02-0.66L2.02-4.49L3.42-4.49L3.42 4.75L2.02 4.75L2.02 0.62L-2.02 0.62L-2.02 4.75Z\"/><path transform=\"translate(170.47 62.13) rotate(61.74)\" d=\"M2.71 4.75L-2.71 4.75L-2.71 3.51L-0.70 3.51L-0.70-3.25L-2.68-3.25L-2.68-4.49L2.68-4.49L2.68-3.25L0.70-3.25L0.70 3.51L2.71 3.51L2.71 4.75Z\"/><path transform=\"translate(175.23 72.79) rotate(70.12)\" d=\"M0.83 4.75L-0.83 4.75L-3.68-4.49L-2.18-4.49L0.00 2.90L2.18-4.49L3.68-4.49L0.83 4.75Z\"/><path transform=\"translate(178.39 84.03) rotate(78.49)\" d=\"M3.00 4.75L-2.90 4.75L-2.90-4.49L3.00-4.49L3.00-3.23L-1.50-3.23L-1.50-0.54L2.60-0.54L2.60 0.70L-1.50 0.70L-1.50 3.50L3.00 3.50L3.00 4.75Z\"/><path transform=\"translate(179.67 107.3) rotate(95.23)\" d=\"M0.00 1.23L0.00 1.23Q-0.49 1.23-0.83 0.90Q-1.17 0.58-1.17 0.12L-1.17 0.12Q-1.17-0.34-0.83-0.66Q-0.49-0.98 0.00-0.98L0.00-0.98Q0.50-0.98 0.84-0.66Q1.17-0.34 1.17 0.12L1.17 0.12Q1.17 0.58 0.84 0.90Q0.50 1.23 0.00 1.23Z\"/><path transform=\"translate(174.19 129.94) rotate(111.98)\" d=\"M-1.62 4.75L-3.02 4.75L-3.02-4.49L0.11-4.49Q1.16-4.49 1.85-4.13Q2.53-3.76 2.86-3.13Q3.19-2.49 3.19-1.68L3.19-1.68Q3.19-0.86 2.86-0.22Q2.53 0.41 1.85 0.77Q1.16 1.14 0.11 1.14L0.11 1.14L-1.62 1.14L-1.62 4.75ZM-1.62-3.23L-1.62-0.12L0.04-0.12Q0.94-0.12 1.35-0.54Q1.77-0.96 1.77-1.68L1.77-1.68Q1.77-2.38 1.35-2.81Q0.94-3.23 0.04-3.23L0.04-3.23L-1.62-3.23Z\"/><path transform=\"translate(169.04 140.42) rotate(120.35)\" d=\"M-1.57 4.75L-2.97 4.75L-2.97-4.49L0.05-4.49Q1.14-4.49 1.84-4.12Q2.55-3.75 2.90-3.12Q3.25-2.49 3.25-1.70L3.25-1.70Q3.25-0.81 2.79-0.11Q2.34 0.58 1.40 0.90L1.40 0.90L3.34 4.75L1.72 4.75L-0.05 1.10L-1.57 1.10L-1.57 4.75ZM-1.57-3.23L-1.57-0.17L-0.03-0.17Q0.92-0.17 1.37-0.59Q1.81-1.02 1.81-1.70L1.81-1.70Q1.81-2.40 1.37-2.82Q0.94-3.23-0.04-3.23L-0.04-3.23L-1.57-3.23Z\"/><path transform=\"translate(162.42 150.04) rotate(128.72)\" d=\"M3.00 4.75L-2.90 4.75L-2.90-4.49L3.00-4.49L3.00-3.23L-1.50-3.23L-1.50-0.54L2.60-0.54L2.60 0.70L-1.50 0.70L-1.50 3.50L3.00 3.50L3.00 4.75Z\"/><path transform=\"translate(154.46 158.6) rotate(137.09)\" d=\"M2.27 0.73L-2.27 0.73L-2.27-0.46L2.27-0.46L2.27 0.73Z\"/><path transform=\"translate(145.35 165.9) rotate(145.47)\" d=\"M3.06 4.75L-2.89 4.75L-2.89-4.49L-1.49-4.49L-1.49 3.50L3.06 3.50L3.06 4.75Z\"/><path transform=\"translate(135.27 171.8) rotate(153.84)\" d=\"M0.00 4.91L0.00 4.91Q-1.12 4.91-1.94 4.33Q-2.76 3.75-3.19 2.68Q-3.63 1.61-3.63 0.13L-3.63 0.13Q-3.63-1.35-3.19-2.42Q-2.76-3.48-1.94-4.07Q-1.12-4.65 0.00-4.65L0.00-4.65Q1.14-4.65 1.95-4.07Q2.76-3.48 3.19-2.42Q3.63-1.35 3.63 0.13L3.63 0.13Q3.63 1.61 3.19 2.68Q2.76 3.75 1.95 4.33Q1.14 4.91 0.00 4.91ZM0.00 3.59L0.00 3.59Q0.99 3.59 1.60 2.70Q2.20 1.81 2.20 0.13L2.20 0.13Q2.20-1.54 1.60-2.44Q0.99-3.33 0.00-3.33L0.00-3.33Q-1.00-3.33-1.60-2.44Q-2.20-1.54-2.20 0.13L-2.20 0.13Q-2.20 1.81-1.60 2.70Q-1.00 3.59 0.00 3.59Z\"/><path transform=\"translate(124.44 176.17) rotate(162.21)\" d=\"M0.83 4.75L-0.83 4.75L-3.68-4.49L-2.18-4.49L0.00 2.90L2.18-4.49L3.68-4.49L0.83 4.75Z\"/><path transform=\"translate(113.09 178.92) rotate(170.58)\" d=\"M3.00 4.75L-2.90 4.75L-2.90-4.49L3.00-4.49L3.00-3.23L-1.50-3.23L-1.50-0.54L2.60-0.54L2.60 0.70L-1.50 0.70L-1.50 3.50L3.00 3.50L3.00 4.75Z\"/><path transform=\"translate(101.46 179.99) rotate(178.95)\" d=\"M-0.99 4.75L-3.21 4.75L-3.21-4.49L-0.99-4.49Q1.24-4.49 2.32-3.25Q3.41-2.02 3.41 0.13L3.41 0.13Q3.41 2.28 2.32 3.52Q1.24 4.75-0.99 4.75L-0.99 4.75ZM-1.81-3.19L-1.81 3.46L-1.04 3.46Q0.57 3.46 1.28 2.55Q1.99 1.65 1.99 0.13L1.99 0.13Q1.99-1.39 1.28-2.29Q0.57-3.19-1.04-3.19L-1.04-3.19L-1.81-3.19Z\"/><path transform=\"translate(78.36 177.02) rotate(195.7)\" d=\"M-2.07 4.75L-3.59 4.75L-0.83-4.49L0.83-4.49L3.59 4.75L2.07 4.75L1.45 2.53L-1.45 2.53L-2.07 4.75ZM0.04-2.51L-0.04-2.51L-1.14 1.41L1.14 1.41L0.04-2.51Z\"/><path transform=\"translate(67.37 173.04) rotate(204.07)\" d=\"M-1.57 4.75L-2.97 4.75L-2.97-4.49L0.05-4.49Q1.14-4.49 1.84-4.12Q2.55-3.75 2.90-3.12Q3.25-2.49 3.25-1.70L3.25-1.70Q3.25-0.81 2.79-0.11Q2.34 0.58 1.40 0.90L1.40 0.90L3.34 4.75L1.72 4.75L-0.05 1.10L-1.57 1.10L-1.57 4.75ZM-1.57-3.23L-1.57-0.17L-0.03-0.17Q0.92-0.17 1.37-0.59Q1.81-1.02 1.81-1.70L1.81-1.70Q1.81-2.40 1.37-2.82Q0.94-3.23-0.04-3.23L-0.04-3.23L-1.57-3.23Z\"/><path transform=\"translate(57.08 167.51) rotate(212.44)\" d=\"M0.03 4.91L0.03 4.91Q-1.14 4.91-1.95 4.32Q-2.76 3.72-3.19 2.65Q-3.62 1.57-3.62 0.15L-3.62 0.15Q-3.62-1.29-3.19-2.37Q-2.76-3.45-1.94-4.05Q-1.12-4.65 0.03-4.65L0.03-4.65Q1.52-4.65 2.40-3.83Q3.29-3.02 3.43-1.64L3.43-1.64L1.89-1.64Q1.77-2.36 1.30-2.84Q0.83-3.33 0.01-3.33L0.01-3.33Q-1.03-3.33-1.61-2.40Q-2.19-1.48-2.19 0.15L-2.19 0.15Q-2.19 1.76-1.61 2.67Q-1.03 3.59 0.01 3.59L0.01 3.59Q0.86 3.59 1.31 3.15Q1.76 2.71 1.89 1.98L1.89 1.98L3.43 1.98Q3.22 3.34 2.36 4.13Q1.50 4.91 0.03 4.91Z\"/><path transform=\"translate(47.71 160.55) rotate(220.81)\" d=\"M-2.02 4.75L-3.42 4.75L-3.42-4.49L-2.02-4.49L-2.02-0.66L2.02-0.66L2.02-4.49L3.42-4.49L3.42 4.75L2.02 4.75L2.02 0.62L-2.02 0.62L-2.02 4.75Z\"/><path transform=\"translate(39.45 152.29) rotate(229.19)\" d=\"M2.71 4.75L-2.71 4.75L-2.71 3.51L-0.70 3.51L-0.70-3.25L-2.68-3.25L-2.68-4.49L2.68-4.49L2.68-3.25L0.70-3.25L0.70 3.51L2.71 3.51L2.71 4.75Z\"/><path transform=\"translate(32.49 142.92) rotate(237.56)\" d=\"M0.83 4.75L-0.83 4.75L-3.68-4.49L-2.18-4.49L0.00 2.90L2.18-4.49L3.68-4.49L0.83 4.75Z\"/><path transform=\"translate(26.96 132.63) rotate(245.93)\" d=\"M3.00 4.75L-2.90 4.75L-2.90-4.49L3.00-4.49L3.00-3.23L-1.50-3.23L-1.50-0.54L2.60-0.54L2.60 0.70L-1.50 0.70L-1.50 3.50L3.00 3.50L3.00 4.75Z\"/><path transform=\"translate(20.65 110.2) rotate(262.67)\" d=\"M0.00 1.23L0.00 1.23Q-0.49 1.23-0.83 0.90Q-1.17 0.58-1.17 0.12L-1.17 0.12Q-1.17-0.34-0.83-0.66Q-0.49-0.98 0.00-0.98L0.00-0.98Q0.50-0.98 0.84-0.66Q1.17-0.34 1.17 0.12L1.17 0.12Q1.17 0.58 0.84 0.90Q0.50 1.23 0.00 1.23Z\"/><path transform=\"translate(21.08 86.91) rotate(279.42)\" d=\"M0.03 4.91L0.03 4.91Q-1.14 4.91-1.95 4.32Q-2.76 3.72-3.19 2.65Q-3.62 1.57-3.62 0.15L-3.62 0.15Q-3.62-1.29-3.19-2.37Q-2.76-3.45-1.94-4.05Q-1.12-4.65 0.03-4.65L0.03-4.65Q1.52-4.65 2.40-3.83Q3.29-3.02 3.43-1.64L3.43-1.64L1.89-1.64Q1.77-2.36 1.30-2.84Q0.83-3.33 0.01-3.33L0.01-3.33Q-1.03-3.33-1.61-2.40Q-2.19-1.48-2.19 0.15L-2.19 0.15Q-2.19 1.76-1.61 2.67Q-1.03 3.59 0.01 3.59L0.01 3.59Q0.86 3.59 1.31 3.15Q1.76 2.71 1.89 1.98L1.89 1.98L3.43 1.98Q3.22 3.34 2.36 4.13Q1.50 4.91 0.03 4.91Z\"/><path transform=\"translate(23.83 75.56) rotate(287.79)\" d=\"M3.00 4.75L-2.90 4.75L-2.90-4.49L3.00-4.49L3.00-3.23L-1.50-3.23L-1.50-0.54L2.60-0.54L2.60 0.70L-1.50 0.70L-1.50 3.50L3.00 3.50L3.00 4.75Z\"/><path transform=\"translate(28.2 64.73) rotate(296.16)\" d=\"M0.18 4.75L-3.22 4.75L-3.22-4.49L0.08-4.49Q1.52-4.49 2.26-3.83Q3.00-3.17 3.00-2.13L3.00-2.13Q3.00-1.32 2.57-0.82Q2.15-0.32 1.60-0.09L1.60-0.09L1.60 0Q2.26 0.24 2.73 0.77Q3.21 1.31 3.21 2.18L3.21 2.18Q3.21 2.89 2.86 3.48Q2.51 4.07 1.83 4.41Q1.16 4.75 0.18 4.75L0.18 4.75ZM-1.82-3.25L-1.82-0.63L-0.09-0.63Q0.71-0.63 1.14-0.96Q1.56-1.28 1.56-1.94L1.56-1.94Q1.56-3.25-0.12-3.25L-0.12-3.25L-1.82-3.25ZM-1.82 0.55L-1.82 3.46L0.00 3.46Q0.86 3.46 1.32 3.09Q1.78 2.72 1.78 2.01L1.78 2.01Q1.78 1.31 1.29 0.93Q0.81 0.55-0.03 0.55L-0.03 0.55L-1.82 0.55Z\"/><path transform=\"translate(34.1 54.65) rotate(304.53)\" d=\"M-0.03 4.91L-0.03 4.91Q-0.96 4.91-1.70 4.53Q-2.43 4.14-2.85 3.36Q-3.27 2.57-3.27 1.37L-3.27 1.37L-3.27-4.49L-1.87-4.49L-1.87 1.45Q-1.87 2.51-1.37 3.08Q-0.87 3.66 0.00 3.66L0.00 3.66Q0.87 3.66 1.37 3.08Q1.87 2.51 1.87 1.45L1.87 1.45L1.87-4.49L3.27-4.49L3.27 1.37Q3.27 2.57 2.84 3.36Q2.40 4.14 1.66 4.53Q0.91 4.91-0.03 4.91Z\"/><path transform=\"translate(49.96 37.58) rotate(321.28)\" d=\"M-1.62 4.75L-3.02 4.75L-3.02-4.49L0.11-4.49Q1.16-4.49 1.85-4.13Q2.53-3.76 2.86-3.13Q3.19-2.49 3.19-1.68L3.19-1.68Q3.19-0.86 2.86-0.22Q2.53 0.41 1.85 0.77Q1.16 1.14 0.11 1.14L0.11 1.14L-1.62 1.14L-1.62 4.75ZM-1.62-3.23L-1.62-0.12L0.04-0.12Q0.94-0.12 1.35-0.54Q1.77-0.96 1.77-1.68L1.77-1.68Q1.77-2.38 1.35-2.81Q0.94-3.23 0.04-3.23L0.04-3.23L-1.62-3.23Z\"/><path transform=\"translate(59.58 30.96) rotate(329.65)\" d=\"M-2.02 4.75L-3.42 4.75L-3.42-4.49L-2.02-4.49L-2.02-0.66L2.02-0.66L2.02-4.49L3.42-4.49L3.42 4.75L2.02 4.75L2.02 0.62L-2.02 0.62L-2.02 4.75Z\"/><path transform=\"translate(81.18 22.24) rotate(346.4)\" d=\"M0.00 1.23L0.00 1.23Q-0.49 1.23-0.83 0.90Q-1.17 0.58-1.17 0.12L-1.17 0.12Q-1.17-0.34-0.83-0.66Q-0.49-0.98 0.00-0.98L0.00-0.98Q0.50-0.98 0.84-0.66Q1.17-0.34 1.17 0.12L1.17 0.12Q1.17 0.58 0.84 0.90Q0.50 1.23 0.00 1.23Z\"/>", mark: {"transform":"translate(58.55 56.47) scale(3.45)","k":3.4545454545454546}, markStroke: 1.22 } as const;
+/** The hanger mark on a 24×24 grid (stroked, round caps/joins). */
+export const HANGER_24 = "M12 10.3V9.1a2.3 2.3 0 1 1 2.3-2.3M12 10.3 2.1 17.8Q1 19 2.7 19.3H21.3Q23 19 21.9 17.8Z";

diff --git a/src/lib/og.ts b/src/lib/og.ts
@@ -6,7 +6,7 @@ import satori from 'satori';
 import sharp from 'sharp';
 import { readFile } from 'node:fs/promises';
 import { join } from 'node:path';
-import { WORDMARK, SEAL } from './brand';
+import { WORDMARK, SEAL, HANGER_24 } from './brand';
 
 type Node = { type: string; props: Record<string, unknown> };
 const h = (type: string, style: Record<string, unknown>, ...children: unknown[]): Node => ({
@@ -54,7 +54,7 @@ const wordmark = () =>
 /** The round archive seal. */
 const seal = (size: number) =>
   svgImg(
-    `<svg xmlns="http://www.w3.org/2000/svg" viewBox="0 0 200 200"><g fill="${C.ink}"><circle cx="100" cy="100" r="96" fill="none" stroke="${C.ink}" stroke-width="1.6"/><circle cx="100" cy="100" r="64" fill="none" stroke="${C.ink}" stroke-width="1"/>${SEAL.ring}</g><path d="${SEAL.star}" stroke="${C.accent}" stroke-width="6" stroke-linecap="round"/></svg>`,
+    `<svg xmlns="http://www.w3.org/2000/svg" viewBox="0 0 200 200"><g fill="${C.ink}"><circle cx="100" cy="100" r="96" fill="none" stroke="${C.ink}" stroke-width="1.6"/><circle cx="100" cy="100" r="64" fill="none" stroke="${C.ink}" stroke-width="1"/>${SEAL.ring}</g><path transform="${SEAL.mark.transform}" d="${HANGER_24}" fill="none" stroke="${C.accent}" stroke-width="${SEAL.markStroke}" stroke-linecap="round" stroke-linejoin="round"/></svg>`,
     size,
     size,
   );

diff --git a/src/scripts/quick.ts b/src/scripts/quick.ts
@@ -24,7 +24,7 @@ function render(e: CatalogEntry) {
   const sold = e.status === 'sold';
   const href = contactHref(e);
   const message = `Hi! I'm interested in the ${e.title} (${[e.size, e.priceLabel].filter(Boolean).join(', ')}) on OFFARCHIVE. Is it still available? ${location.origin}${e.url}`;
-  const seller = e.seller.official ? '✳ OFFARCHIVE.' : `@${esc(e.seller.username)}`;
+  const seller = e.seller.official ? 'OFFARCHIVE.' : `@${esc(e.seller.username)}`;
   const specs = [
     e.size && [e.sizeLabel, e.size],
     ['Condition', e.condition],

diff --git a/README.md b/README.md
@@ -47,7 +47,7 @@ These rules are enforced **in the database** (row-level security and triggers in
 - **Sell:** **Sell** button → log in with email (6-digit code) → add contact details → add photos, details, measurements → submit.
 - **Manage:** **My listings** shows each listing's status (In review, Live, Needs changes with the admin's note, Sold), lets you change the status in one tap, and has edit and delete.
 - **Moderate:** **/admin** → Review queue: Approve, or Reject with a reason (the seller sees it and can fix & resubmit). All listings: hide, feature, edit. Sellers: verify trusted sellers so they skip the queue.
-- Your own pieces (any admin's) carry the **✳ OFFARCHIVE.** badge. Community pieces show **@username**, with ✓ if verified.
+- Your own pieces (any admin's) carry the **OFFARCHIVE.** badge with the hanger mark. Community pieces show **@username**, with ✓ if verified.
 
 ## Project structure
 

diff --git a/docs/SUPABASE.md b/docs/SUPABASE.md
@@ -100,7 +100,7 @@ where id = (select id from auth.users where email = 'you@example.com');
 npm run seed:export        # writes supabase/seed.sql from src/content/items
 ```
 
-Paste `supabase/seed.sql` into the SQL Editor and run it. Your pieces become OFFARCHIVE. listings (with the ✳ pick badge). It's safe to re-run, because existing slugs are skipped. Photos from `src/assets` aren't uploaded automatically: open each listing's **Edit** page to add them.
+Paste `supabase/seed.sql` into the SQL Editor and run it. Your pieces become OFFARCHIVE. listings (with the OFFARCHIVE. pick badge). It's safe to re-run, because existing slugs are skipped. Photos from `src/assets` aren't uploaded automatically: open each listing's **Edit** page to add them.
 
 From now on, add and edit pieces from **Sell** / **My listings** on the site (works on your phone). The Markdown files are only a fallback.
 

diff --git a/ROADMAP.md b/ROADMAP.md
@@ -65,7 +65,7 @@ Rebuilt from a single HTML file into an Astro + TypeScript project.
 - ✅ Sell form with in-browser photo compression, type-aware measurements, edit and delete
 - ✅ Moderation: review queue, reject with a note, resubmit, hide, feature. Verified sellers skip review
 - ✅ Buyers contact sellers directly, with safety tips on community listings
-- ✅ Your own pieces highlighted as ✳ OFFARCHIVE. picks
+- ✅ Your own pieces highlighted as OFFARCHIVE. picks (hanger badge)
 
 ---
 
